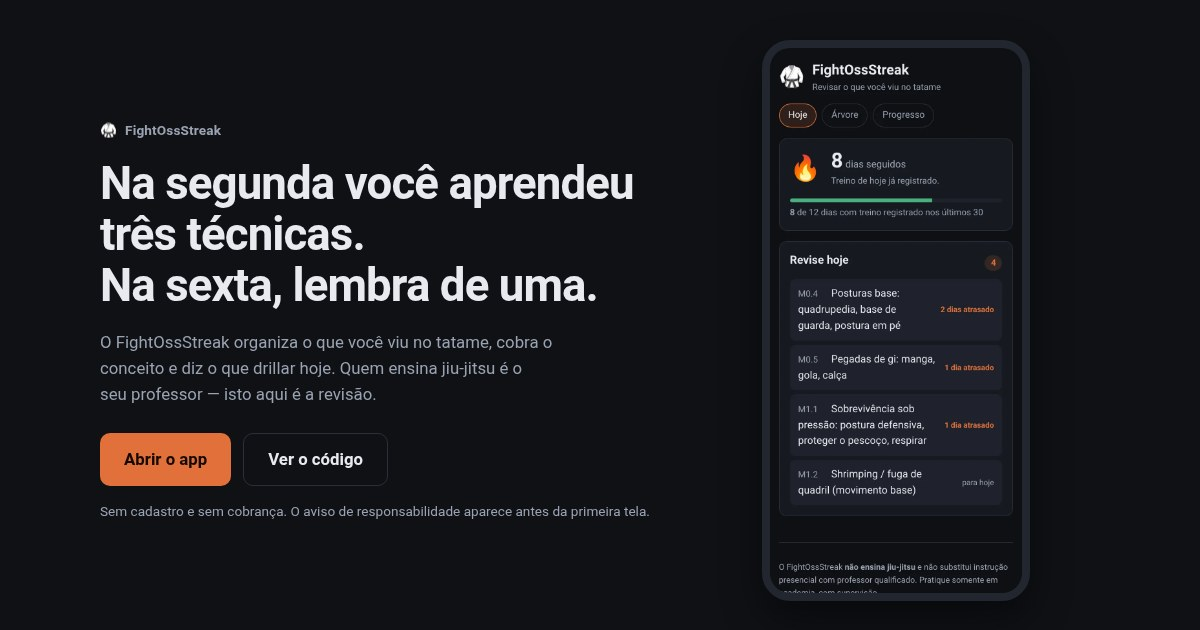
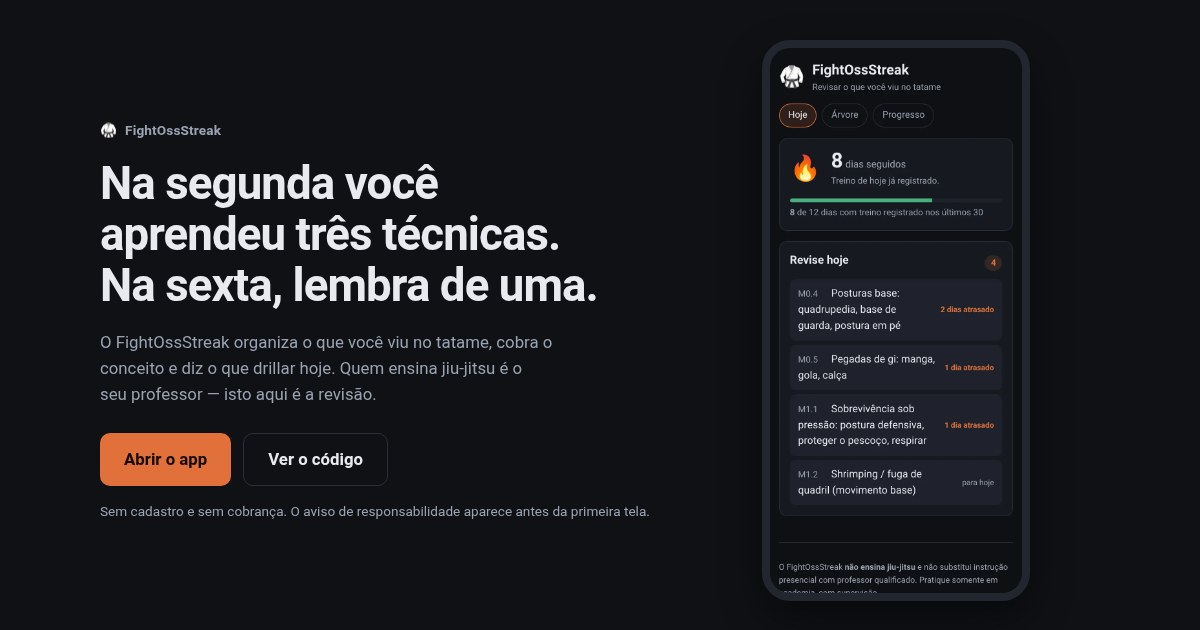
fix: corrige leitura da landing em tela larga e o marcador de passo
Três apontamentos da revisão, com a mesma raiz nos dois últimos.

O número do passo estava em 0,85rem — do tamanho de uma legenda, lia como
sujeira acima do título em vez de "passo 1 de 4". Virou marcador circular.

As seções de texto puro (o problema, o estado do projeto, o aviso) tinham a
linha limitada a ~62 caracteres, o que está certo para leitura, mas ficavam
encostadas à esquerda num container de 1040px: em tela larga sobrava meia
seção vazia à direita, e o parágrafo curto quebrava deixando "à mostra."
órfão na segunda linha. Passam a ter título à esquerda e corpo à direita, do
mesmo jeito que "Como funciona" — o limite de leitura vira largura de coluna
em vez de espaço morto. No celular voltam a uma coluna.

Junto, `text-wrap: balance` nos títulos e `pretty` nos corpos, para o
navegador parar de deixar palavra sozinha na última linha. Onde não houver
suporte, é ignorado.

Conferido em 1920, 1440 e 390. A imagem de prévia foi refeita porque o
balanceamento muda a quebra do título no hero.

Changed region(s): [[0.0617, 0.2714, 0.5242, 0.4222]]

diff --git a/web/src/pages/LandingPage.tsx b/web/src/pages/LandingPage.tsx
@@ -77,16 +77,21 @@ export function LandingPage() {
         </div>
       </header>
 
-      <section className="landing__section landing__problem" aria-labelledby="problema">
+      <section
+        className="landing__section landing__section--split landing__problem"
+        aria-labelledby="problema"
+      >
         <h2 id="problema">Toda aula tem três técnicas novas. A retenção não acompanha.</h2>
-        <p>
-          Você anota no caderno e não volta. Salva o vídeo e não assiste. Na vez seguinte em que a
-          posição aparece no rolamento, o corpo não lembra do detalhe que o professor repetiu duas
-          vezes.
-        </p>
-        <p className="landing__punch">
-          O problema não é falta de conteúdo. É falta de revisão na hora certa.
-        </p>
+        <div>
+          <p>
+            Você anota no caderno e não volta. Salva o vídeo e não assiste. Na vez seguinte em que a
+            posição aparece no rolamento, o corpo não lembra do detalhe que o professor repetiu duas
+            vezes.
+          </p>
+          <p className="landing__punch">
+            O problema não é falta de conteúdo. É falta de revisão na hora certa.
+          </p>
+        </div>
       </section>
 
       <section className="landing__section" aria-labelledby="como-funciona">
@@ -131,30 +136,37 @@ export function LandingPage() {
         </ul>
       </section>
 
-      <section className="landing__section" aria-labelledby="estado">
+      <section className="landing__section landing__section--split" aria-labelledby="estado">
         <h2 id="estado">Em que pé está</h2>
-        <p className="landing__lead landing__lead--small">
-          Ferramenta de uso pessoal, em uso real e com o inacabado à mostra.
-        </p>
-        <ul className="landing__status">
-          {STATUS.map((item) => (
-            <li key={item.label} className={item.done ? 'is-done' : 'is-pending'}>
-              <span className="landing__status-mark" aria-hidden="true">
-                {item.done ? '✓' : '○'}
-              </span>
-              <span>{item.label}</span>
-            </li>
-          ))}
-        </ul>
+        <div>
+          <p className="landing__lead landing__lead--small">
+            Ferramenta de uso pessoal, em uso real e com o inacabado à mostra.
+          </p>
+          <ul className="landing__status">
+            {STATUS.map((item) => (
+              <li key={item.label} className={item.done ? 'is-done' : 'is-pending'}>
+                <span className="landing__status-mark" aria-hidden="true">
+                  {item.done ? '✓' : '○'}
+                </span>
+                <span>{item.label}</span>
+              </li>
+            ))}
+          </ul>
+        </div>
       </section>
 
-      <section className="landing__section landing__warning" aria-labelledby="aviso">
+      <section
+        className="landing__section landing__section--split landing__warning"
+        aria-labelledby="aviso"
+      >
         <h2 id="aviso">Antes de entrar</h2>
-        <p>⚠ {SHORT_DISCLAIMER}</p>
-        <p className="landing__note">
-          O <a href={DISCLAIMER_DOC_URL}>aviso completo</a> é exibido com aceite obrigatório na
-          primeira abertura do app.
-        </p>
+        <div>
+          <p>⚠ {SHORT_DISCLAIMER}</p>
+          <p className="landing__note">
+            O <a href={DISCLAIMER_DOC_URL}>aviso completo</a> é exibido com aceite obrigatório na
+            primeira abertura do app.
+          </p>
+        </div>
       </section>
 
       <section className="landing__section landing__close">

diff --git a/web/src/styles.css b/web/src/styles.css
@@ -778,6 +778,9 @@ button:disabled {
   font-size: clamp(1.85rem, 4.4vw, 2.85rem);
   line-height: 1.12;
   letter-spacing: -0.02em;
+  /* `balance` distribui as linhas do título; `pretty` (nos corpos abaixo) evita a última linha com
+     uma palavra só. Onde não houver suporte, o navegador ignora e nada muda. */
+  text-wrap: balance;
 }
 
 .landing__lead {
@@ -785,6 +788,7 @@ button:disabled {
   max-width: 48ch;
   color: var(--muted);
   font-size: 1.05rem;
+  text-wrap: pretty;
 }
 
 .landing__lead--small {
@@ -867,17 +871,48 @@ button:disabled {
   border-bottom: 1px solid var(--border);
 }
 
+/*
+ * Seções sem imagem ao lado ganham duas colunas.
+ *
+ * A linha continua limitada a ~60 caracteres, porque linha de 1000px não se lê — mas com o bloco
+ * encostado à esquerda dentro de um container de 1040px, o que sobrava era meia seção vazia à
+ * direita, e o parágrafo curto ainda quebrava deixando uma palavra órfã na última linha. O limite
+ * de leitura vira largura de coluna em vez de espaço morto.
+ */
+.landing__section--split {
+  display: grid;
+  grid-template-columns: minmax(0, 0.8fr) minmax(0, 1.2fr);
+  gap: 1rem 2.5rem;
+  align-items: start;
+}
+
+.landing__section--split > h2 {
+  margin-bottom: 0;
+}
+
+.landing__section--split > div > :first-child {
+  margin-top: 0;
+}
+
+/* Dentro da coluna, o limite de leitura já é a própria coluna: manter o teto de 48ch aqui era o que
+   quebrava "…com o inacabado / à mostra." em duas linhas com a segunda quase vazia. */
+.landing__section--split .landing__lead {
+  max-width: none;
+}
+
 .landing__section > h2 {
   margin: 0 0 0.6rem;
   font-size: clamp(1.35rem, 2.6vw, 1.8rem);
   line-height: 1.22;
   max-width: 30ch;
+  text-wrap: balance;
 }
 
 .landing__problem p {
   margin: 0.7rem 0 0;
   max-width: 62ch;
   color: var(--muted);
+  text-wrap: pretty;
 }
 
 .landing__problem .landing__punch {
@@ -902,10 +937,19 @@ button:disabled {
   align-items: center;
 }
 
+/* Marcador de passo, não legenda: em 0.85rem o número lia como sujeira acima do título. */
 .landing__step-number {
-  margin: 0 0 0.4rem;
+  display: inline-flex;
+  align-items: center;
+  justify-content: center;
+  width: 2.4rem;
+  height: 2.4rem;
+  margin: 0 0 0.8rem;
+  border: 1px solid var(--accent);
+  border-radius: 999px;
+  background: var(--accent-soft);
   color: var(--accent);
-  font-size: 0.85rem;
+  font-size: 1.05rem;
   font-weight: 700;
   font-variant-numeric: tabular-nums;
 }
@@ -918,6 +962,7 @@ button:disabled {
 .landing__step p {
   margin: 0;
   color: var(--muted);
+  text-wrap: pretty;
 }
 
 .landing__print {
@@ -1023,6 +1068,7 @@ button:disabled {
   max-width: 32ch;
   font-size: clamp(1.35rem, 2.6vw, 1.8rem);
   line-height: 1.22;
+  text-wrap: balance;
 }
 
 .landing__close .landing__lead--small {
@@ -1137,8 +1183,20 @@ button:disabled {
   }
 
   .landing__hero,
-  .landing__step {
+  .landing__step,
+  .landing__section--split {
     grid-template-columns: minmax(0, 1fr);
+  }
+
+  .landing__section--split {
+    gap: 0.9rem;
+  }
+
+  .landing__step-number {
+    width: 2.1rem;
+    height: 2.1rem;
+    margin-bottom: 0.6rem;
+    font-size: 0.95rem;
   }
 
   .landing__hero {
